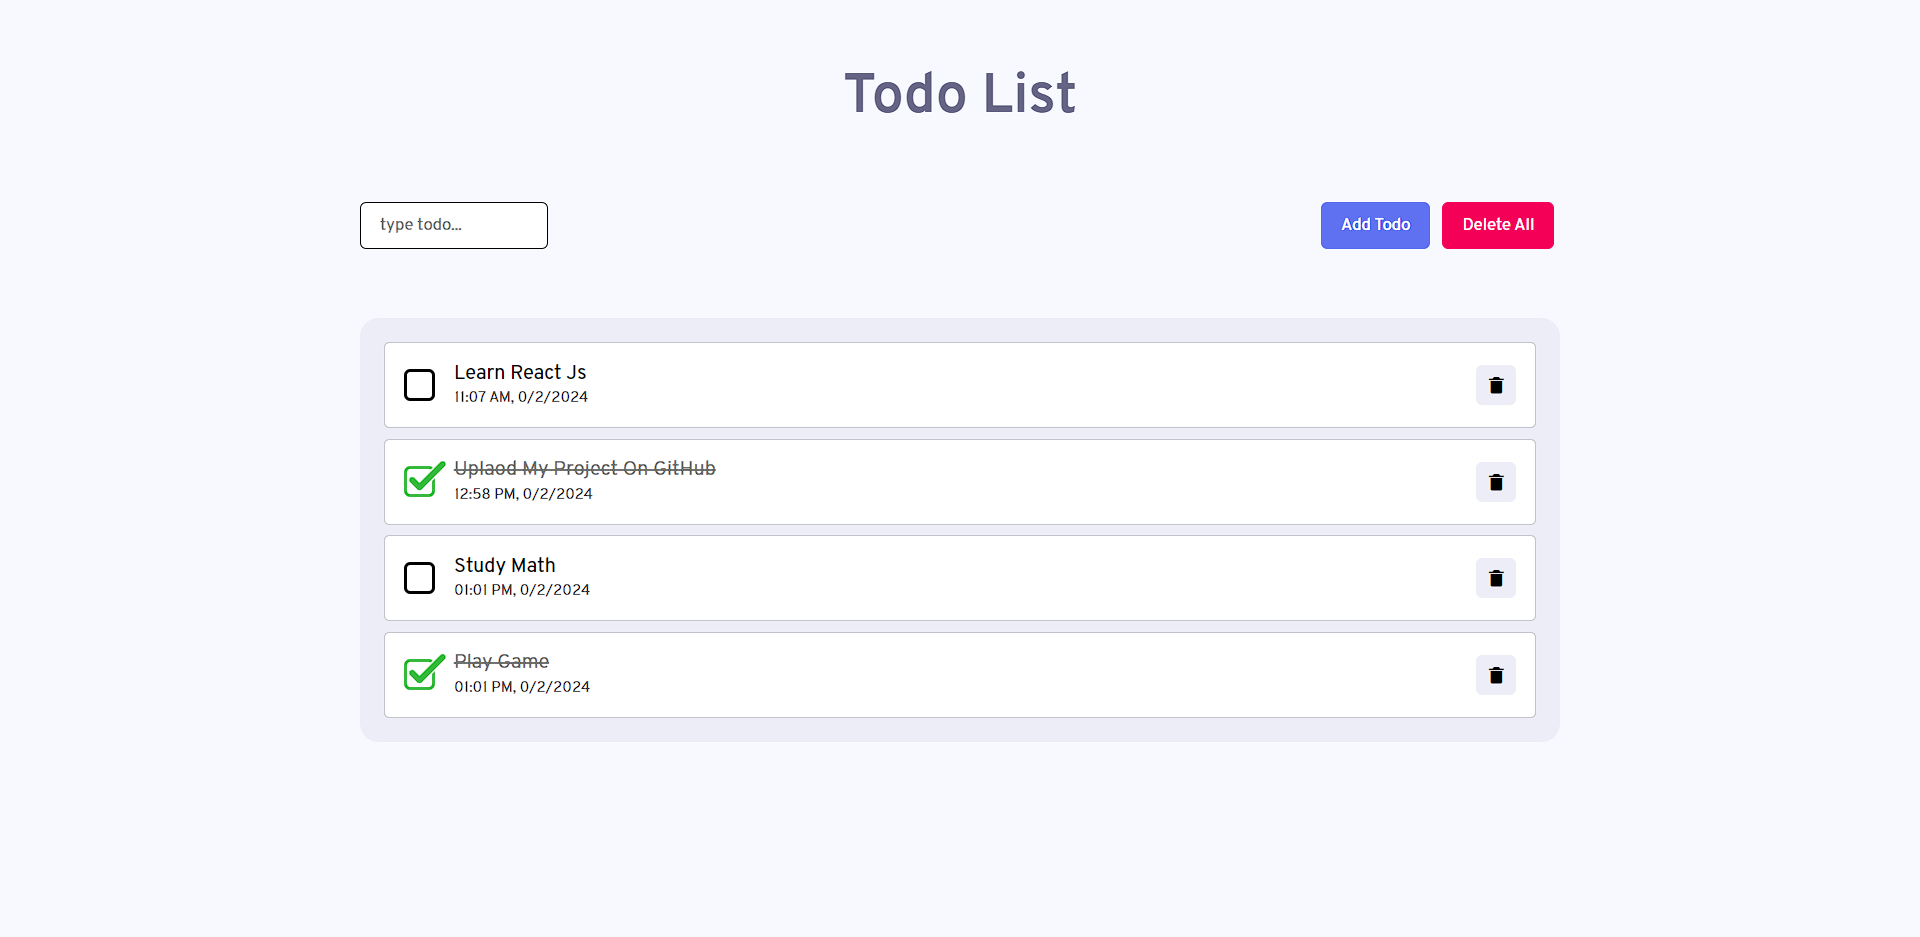
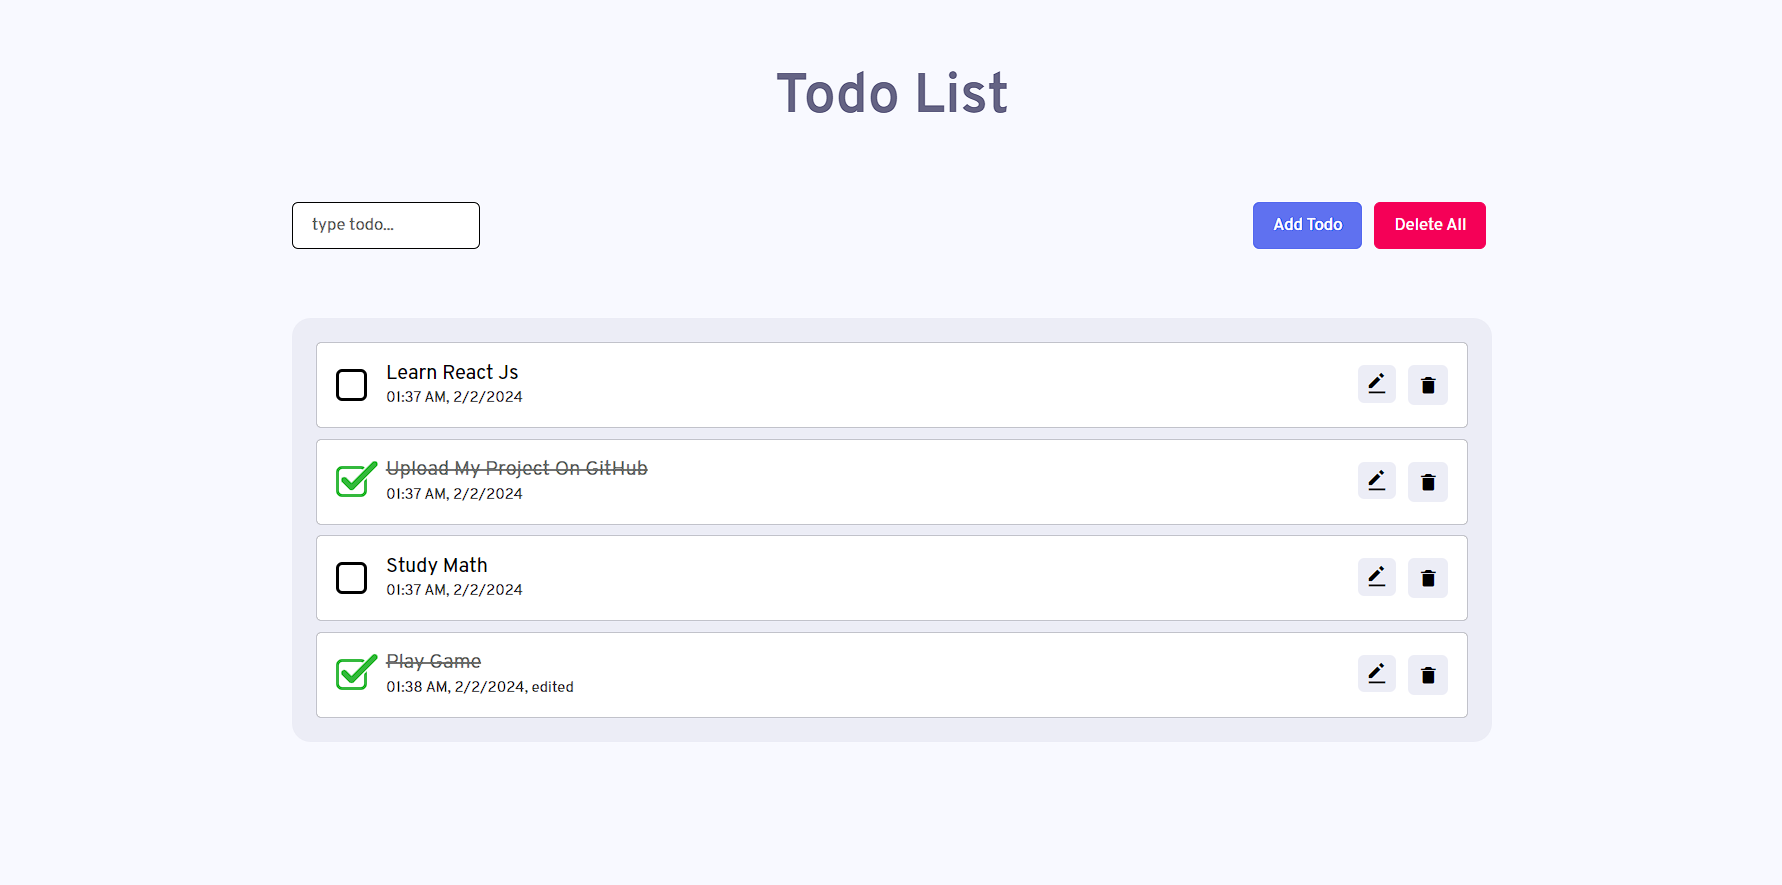
edit README and preview image

diff --git a/README.md b/README.md
@@ -1,19 +1,38 @@
-# Overview
-This project serves as a practical exercise to apply learned concepts. Here, we delve into designing and implementing a To-Do. It is Implemented using React for To master more of what I learned.
+# Todo App
 
-# Project Preview
+## Overview
+This project serves as a practical exercise to apply learned concepts. Here, I delve into designing and implementing a To-Do. It is implemented using React to master more of what I learned.
+
+## Project Feature
+My todo app features:
+
+- **Adding Todos:** Users can easily add new todos to the list.
+-Deleting Todos: Allows users to remove existing todos from the list.
+-Editing Todos: Users have the ability to edit todo titles and save changes.
+-Local Storage: Todos are saved locally in the browser's storage, ensuring data persistence even after closing the page.
+
+- **Deleting Todos:** Allows users to remove existing todos from the list.
+
+- **Editing Todos:** Users have the ability to edit todo titles and save changes.
+
+- **Save Todos in Local Storage:** Todos are saved locally in the browser's storage, ensuring data persistence even after closing the page.
+
+## Project Preview
 ![Project-Preview](https://github.com/MohiiiReza051/Todo-App/blob/master/src/preview-img/project-preview.png)
 
-# License
+## License
 This project is licensed under MIT.
 
-# Project Status
-This small project cannot be considered complete because I plan to optimize it with the things I will learn later or add features to it.
+## Project Status
+This responsive todo project is finished.
 
-# Technologies
+## Technologies
 ![HTML](https://img.shields.io/badge/HTML5-E34F26?style=for-the-badge&logo=html5&logoColor=white
 )
 ![CSS](https://img.shields.io/badge/CSS3-1572B6?style=for-the-badge&logo=css3&logoColor=white
 )
 ![JS](https://img.shields.io/badge/JavaScript-323330?style=for-the-badge&logo=javascript&logoColor=F7DF1E)
 ![React](https://img.shields.io/badge/React-20232A?style=for-the-badge&logo=react&logoColor=61DAFB)
+
+## Development
+This project was developed by [MohammadReza Shahani](https://github.com/MohiiiReza051)
